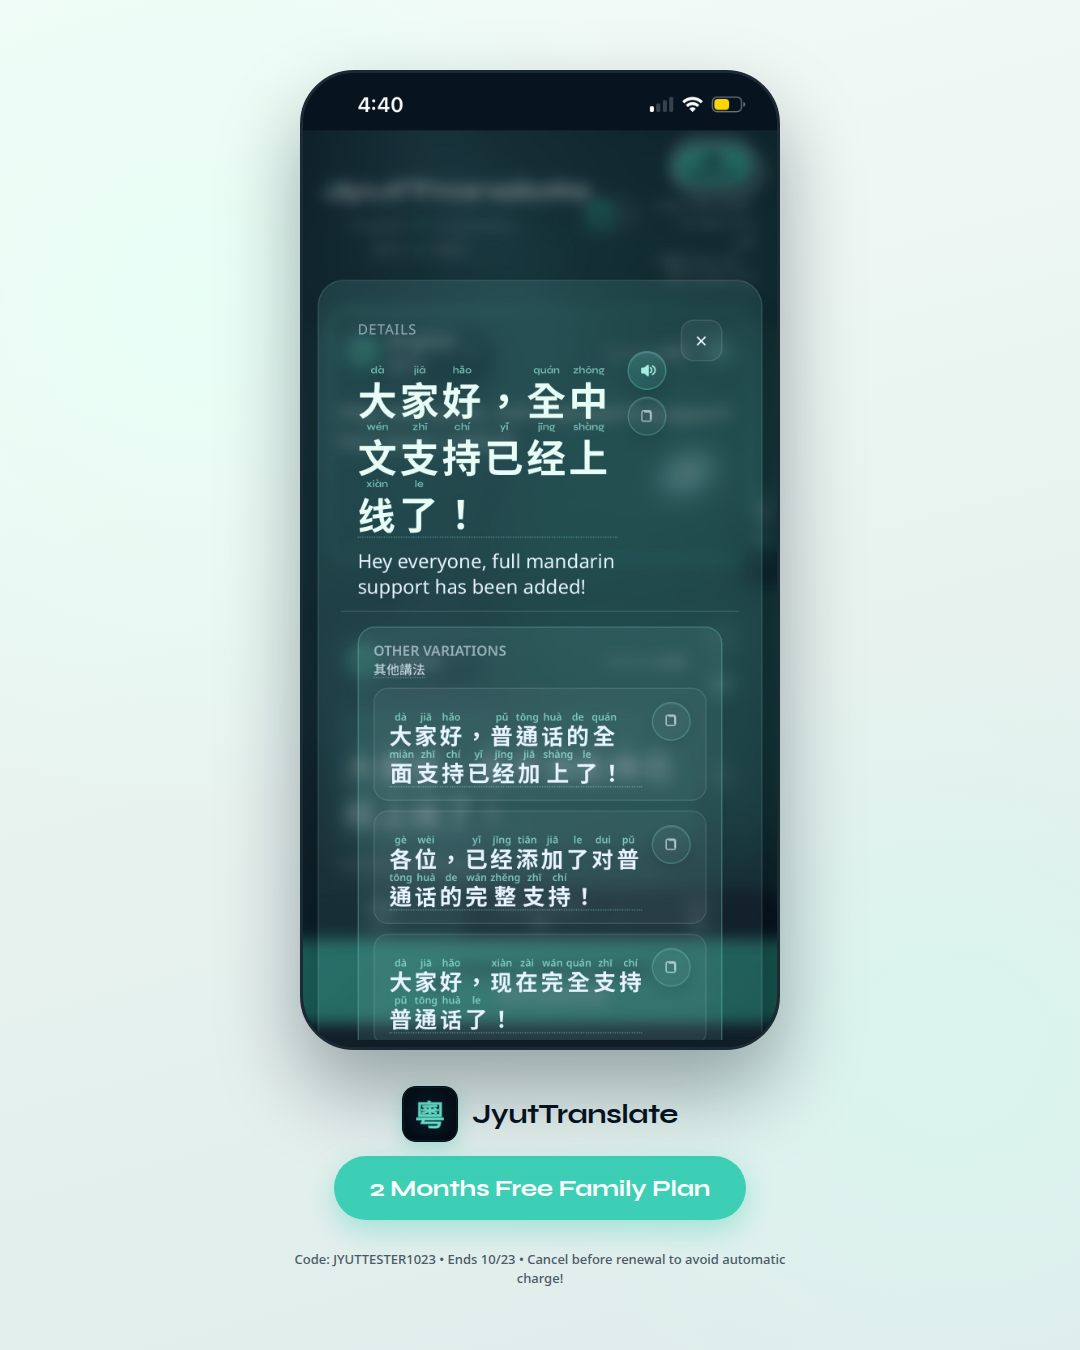
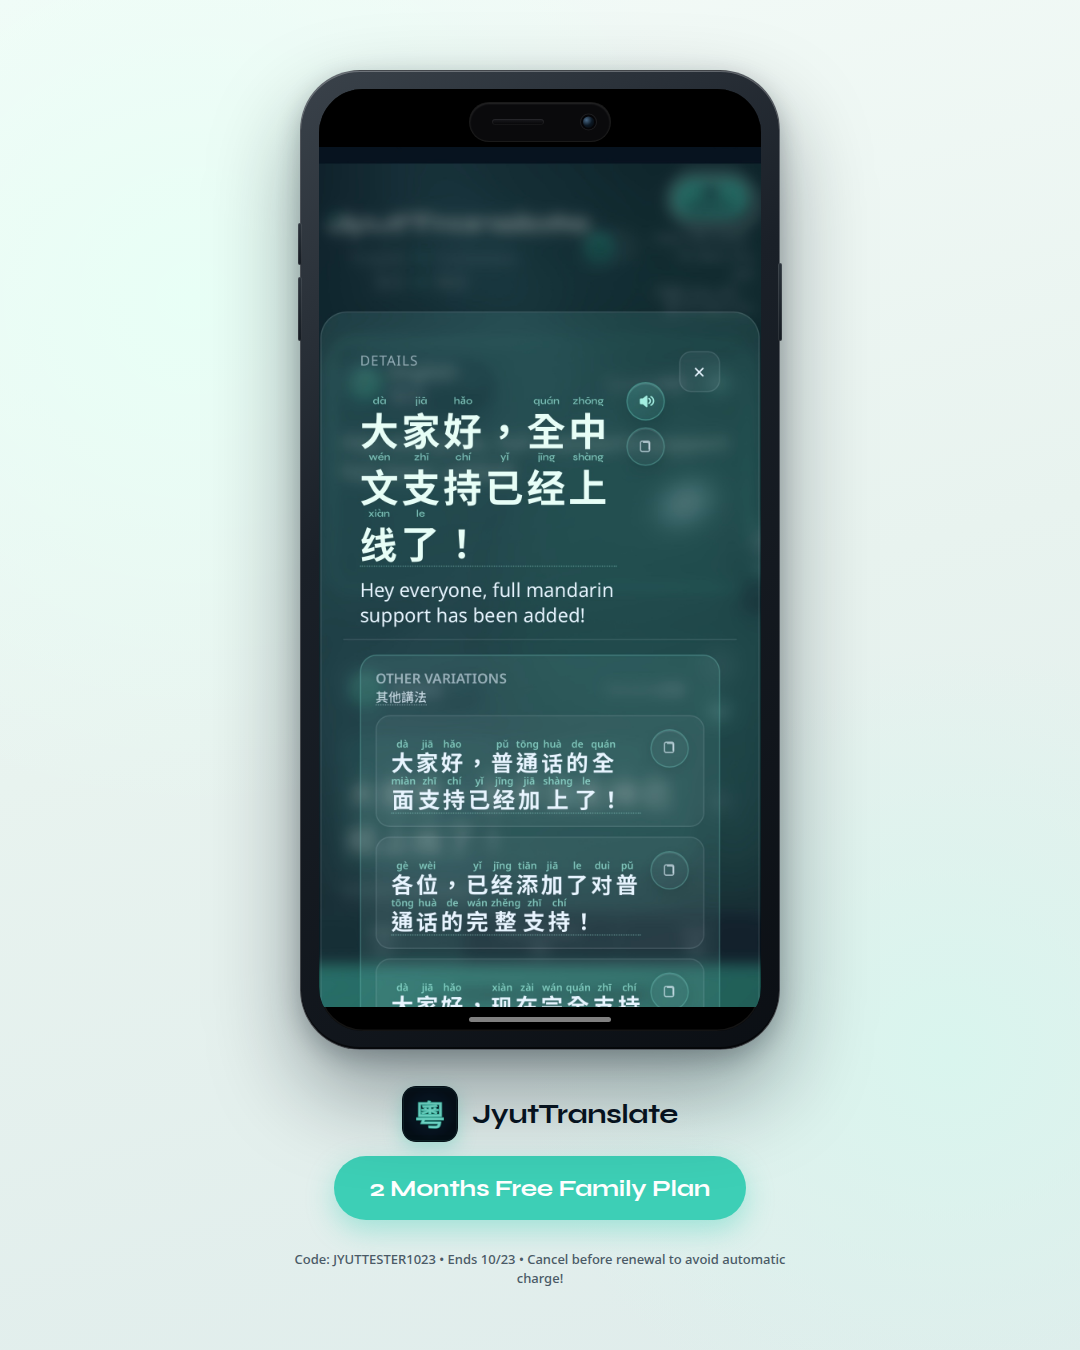
Polish Mandarin ad phone chrome with island, bezel, and home bar.
Inset the real UI under a Dynamic Island speaker/camera band, thicker frame padding, and home indicator so the mockups read as devices instead of flat overlays.

diff --git a/docs/social/ig-posts/lang-launch.css b/docs/social/ig-posts/lang-launch.css
@@ -142,34 +142,184 @@
   padding-right: 8px;
 }
 
-/* Real device chrome + screenshot (no fake UI) */
+/* Real device chrome — thick bezel, top island band, home bar */
 .phone {
+  --phone-bezel: 16px;
+  --phone-radius: 54px;
+  --phone-screen-radius: 40px;
+  --phone-top-chrome: 54px;
+  --phone-bottom-chrome: 22px;
   width: 420px;
   height: 860px;
-  border-radius: 48px;
-  background: #0a1218;
-  border: 3px solid #1c2a36;
+  border-radius: var(--phone-radius);
+  background: linear-gradient(145deg, #3a424a 0%, #1a2028 38%, #0b0f14 100%);
+  border: 1px solid rgba(255, 255, 255, 0.22);
   box-shadow:
-    0 40px 80px rgba(7, 19, 31, 0.35),
-    inset 0 0 0 2px rgba(255, 255, 255, 0.06);
-  overflow: hidden;
+    0 42px 90px rgba(7, 19, 31, 0.4),
+    0 8px 24px rgba(7, 19, 31, 0.24),
+    inset 0 1px 0 rgba(255, 255, 255, 0.28),
+    inset 0 -2px 0 rgba(0, 0, 0, 0.55);
+  overflow: visible;
   position: relative;
   flex-shrink: 0;
+  padding: var(--phone-bezel);
+  box-sizing: border-box;
 }
 
 .phone--lg {
+  --phone-bezel: 18px;
+  --phone-radius: 60px;
+  --phone-screen-radius: 44px;
+  --phone-top-chrome: 58px;
+  --phone-bottom-chrome: 24px;
   width: 480px;
   height: 980px;
-  border-radius: 54px;
+}
+
+.phone__side {
+  position: absolute;
+  background: linear-gradient(180deg, #2a323a, #151b22);
+  border-radius: 3px;
+  box-shadow: inset 0 0 0 1px rgba(255, 255, 255, 0.1);
+  z-index: 2;
+}
+
+.phone__side--vol-up {
+  left: -3px;
+  top: 152px;
+  width: 4px;
+  height: 42px;
+}
+
+.phone__side--vol-down {
+  left: -3px;
+  top: 206px;
+  width: 4px;
+  height: 64px;
+}
+
+.phone__side--power {
+  right: -3px;
+  top: 192px;
+  width: 4px;
+  height: 78px;
+}
+
+.phone__bezel {
+  position: relative;
+  width: 100%;
+  height: 100%;
+  border-radius: var(--phone-screen-radius);
+  background: #000;
+  overflow: hidden;
+  box-shadow:
+    inset 0 0 0 1.5px rgba(255, 255, 255, 0.08),
+    inset 0 0 32px rgba(0, 0, 0, 0.65);
+}
+
+/* Black speaker / camera band — screenshot starts below this */
+.phone__top-chrome {
+  position: absolute;
+  top: 0;
+  left: 0;
+  right: 0;
+  height: var(--phone-top-chrome);
+  background: #000;
+  z-index: 3;
+  pointer-events: none;
+}
+
+.phone__island {
+  position: absolute;
+  top: 12px;
+  left: 50%;
+  transform: translateX(-50%);
+  width: 126px;
+  height: 36px;
+  border-radius: 22px;
+  background: #0a0a0c;
+  box-shadow:
+    0 0 0 1px rgba(255, 255, 255, 0.1),
+    inset 0 1px 2px rgba(255, 255, 255, 0.12);
+  z-index: 5;
+  pointer-events: none;
+}
+
+.phone__island::before {
+  /* speaker mesh */
+  content: '';
+  position: absolute;
+  left: 22px;
+  top: 50%;
+  transform: translateY(-50%);
+  width: 52px;
+  height: 6px;
+  border-radius: 999px;
+  background: linear-gradient(180deg, #1a1a1e, #050506);
+  box-shadow: inset 0 0 0 1px rgba(255, 255, 255, 0.06);
+}
+
+.phone__island::after {
+  /* camera lens */
+  content: '';
+  position: absolute;
+  right: 16px;
+  top: 50%;
+  transform: translateY(-50%);
+  width: 11px;
+  height: 11px;
+  border-radius: 50%;
+  background: radial-gradient(circle at 32% 32%, #4a6a88 0%, #0c1824 52%, #020508 100%);
+  box-shadow:
+    0 0 0 2px #050508,
+    0 0 0 3px rgba(255, 255, 255, 0.08);
+}
+
+.phone--lg .phone__island {
+  width: 140px;
+  height: 38px;
+  top: 14px;
+}
+
+.phone__screen {
+  position: absolute;
+  top: var(--phone-top-chrome);
+  left: 0;
+  right: 0;
+  bottom: var(--phone-bottom-chrome);
+  overflow: hidden;
+  background: #07131f;
+  z-index: 1;
 }
 
 .phone__shot {
   display: block;
   width: 100%;
-  height: 100%;
+  /* Crop screenshot native status bar / island under our hardware chrome */
+  height: 118%;
+  margin-top: -9%;
   object-fit: cover;
-  object-position: top center;
+  object-position: center top;
 }
+
+.phone__home {
+  position: absolute;
+  left: 50%;
+  bottom: 8px;
+  transform: translateX(-50%);
+  width: 126px;
+  height: 5px;
+  border-radius: 999px;
+  background: rgba(255, 255, 255, 0.5);
+  z-index: 5;
+  pointer-events: none;
+}
+
+.phone--lg .phone__home {
+  width: 142px;
+  bottom: 9px;
+}
+
 
 /* Slide 3 — single phone focus */
 .lang-launch--solo {

diff --git a/docs/social/ig-posts/mandarin-support-zh.html b/docs/social/ig-posts/mandarin-support-zh.html
@@ -44,13 +44,23 @@
 
         <div class="lang-launch__phone-col">
           <div class="phone">
-            <img
-              class="phone__shot"
-              src="./source/mandarin-ads/ui-zh-yue-cmn.jpg"
-              width="1170"
-              height="2532"
-              alt="Real JyutTranslate Solo UI — Cantonese and Mandarin with pinyin"
-            />
+            <span class="phone__side phone__side--vol-up" aria-hidden="true"></span>
+            <span class="phone__side phone__side--vol-down" aria-hidden="true"></span>
+            <span class="phone__side phone__side--power" aria-hidden="true"></span>
+            <div class="phone__bezel">
+              <div class="phone__top-chrome" aria-hidden="true"></div>
+              <div class="phone__island" aria-hidden="true"></div>
+              <div class="phone__screen">
+                <img
+                  class="phone__shot"
+                  src="./source/mandarin-ads/ui-zh-yue-cmn.jpg"
+                  width="1170"
+                  height="2532"
+                  alt="Real JyutTranslate Solo UI — Cantonese and Mandarin with pinyin"
+                />
+              </div>
+              <div class="phone__home" aria-hidden="true"></div>
+            </div>
           </div>
         </div>
       </div>

diff --git a/docs/social/ig-posts/mandarin-support-en.html b/docs/social/ig-posts/mandarin-support-en.html
@@ -44,13 +44,23 @@
 
         <div class="lang-launch__phone-col">
           <div class="phone">
-            <img
-              class="phone__shot"
-              src="./source/mandarin-ads/ui-en-cmn.jpg"
-              width="1170"
-              height="2532"
-              alt="Real JyutTranslate Solo UI — English to Mandarin with pinyin"
-            />
+            <span class="phone__side phone__side--vol-up" aria-hidden="true"></span>
+            <span class="phone__side phone__side--vol-down" aria-hidden="true"></span>
+            <span class="phone__side phone__side--power" aria-hidden="true"></span>
+            <div class="phone__bezel">
+              <div class="phone__top-chrome" aria-hidden="true"></div>
+              <div class="phone__island" aria-hidden="true"></div>
+              <div class="phone__screen">
+                <img
+                  class="phone__shot"
+                  src="./source/mandarin-ads/ui-en-cmn.jpg"
+                  width="1170"
+                  height="2532"
+                  alt="Real JyutTranslate Solo UI — English to Mandarin with pinyin"
+                />
+              </div>
+              <div class="phone__home" aria-hidden="true"></div>
+            </div>
           </div>
         </div>
       </div>

diff --git a/docs/social/ig-posts/mandarin-support-details.html b/docs/social/ig-posts/mandarin-support-details.html
@@ -17,13 +17,23 @@
 
     <article class="lang-launch lang-launch--solo" id="post">
       <div class="phone phone--lg">
-        <img
-          class="phone__shot"
-          src="./source/mandarin-ads/ui-details.jpg"
-          width="1170"
-          height="2532"
-          alt="Real JyutTranslate Details — Mandarin pinyin and other variations"
-        />
+        <span class="phone__side phone__side--vol-up" aria-hidden="true"></span>
+        <span class="phone__side phone__side--vol-down" aria-hidden="true"></span>
+        <span class="phone__side phone__side--power" aria-hidden="true"></span>
+        <div class="phone__bezel">
+          <div class="phone__top-chrome" aria-hidden="true"></div>
+          <div class="phone__island" aria-hidden="true"></div>
+          <div class="phone__screen">
+            <img
+              class="phone__shot"
+              src="./source/mandarin-ads/ui-details.jpg"
+              width="1170"
+              height="2532"
+              alt="Real JyutTranslate Details — Mandarin pinyin and other variations"
+            />
+          </div>
+          <div class="phone__home" aria-hidden="true"></div>
+        </div>
       </div>
       <div class="lang-launch__solo-foot">
         <div class="lang-launch__brand">
